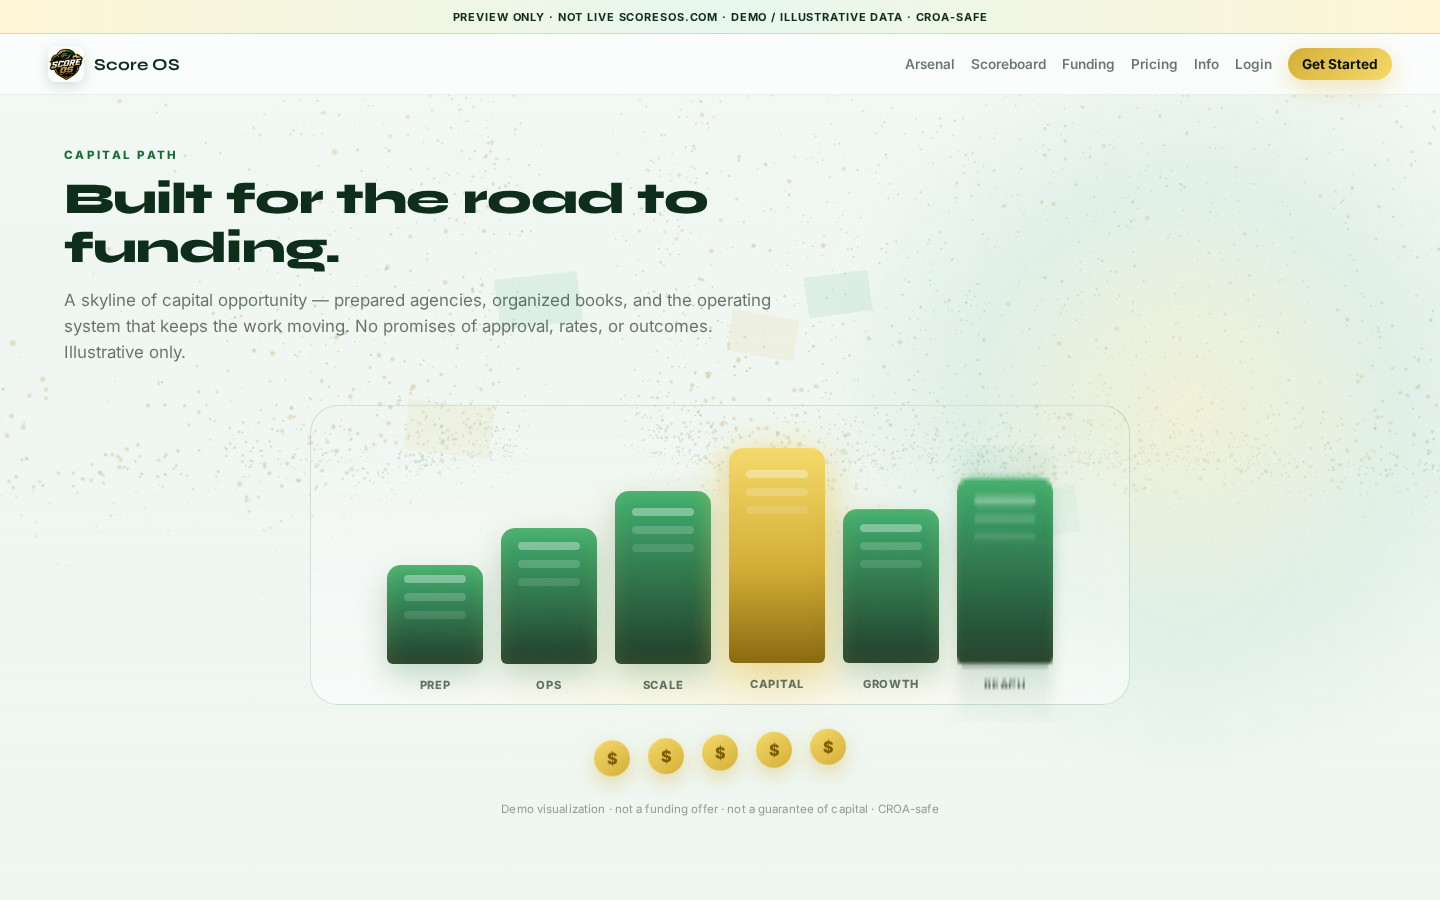
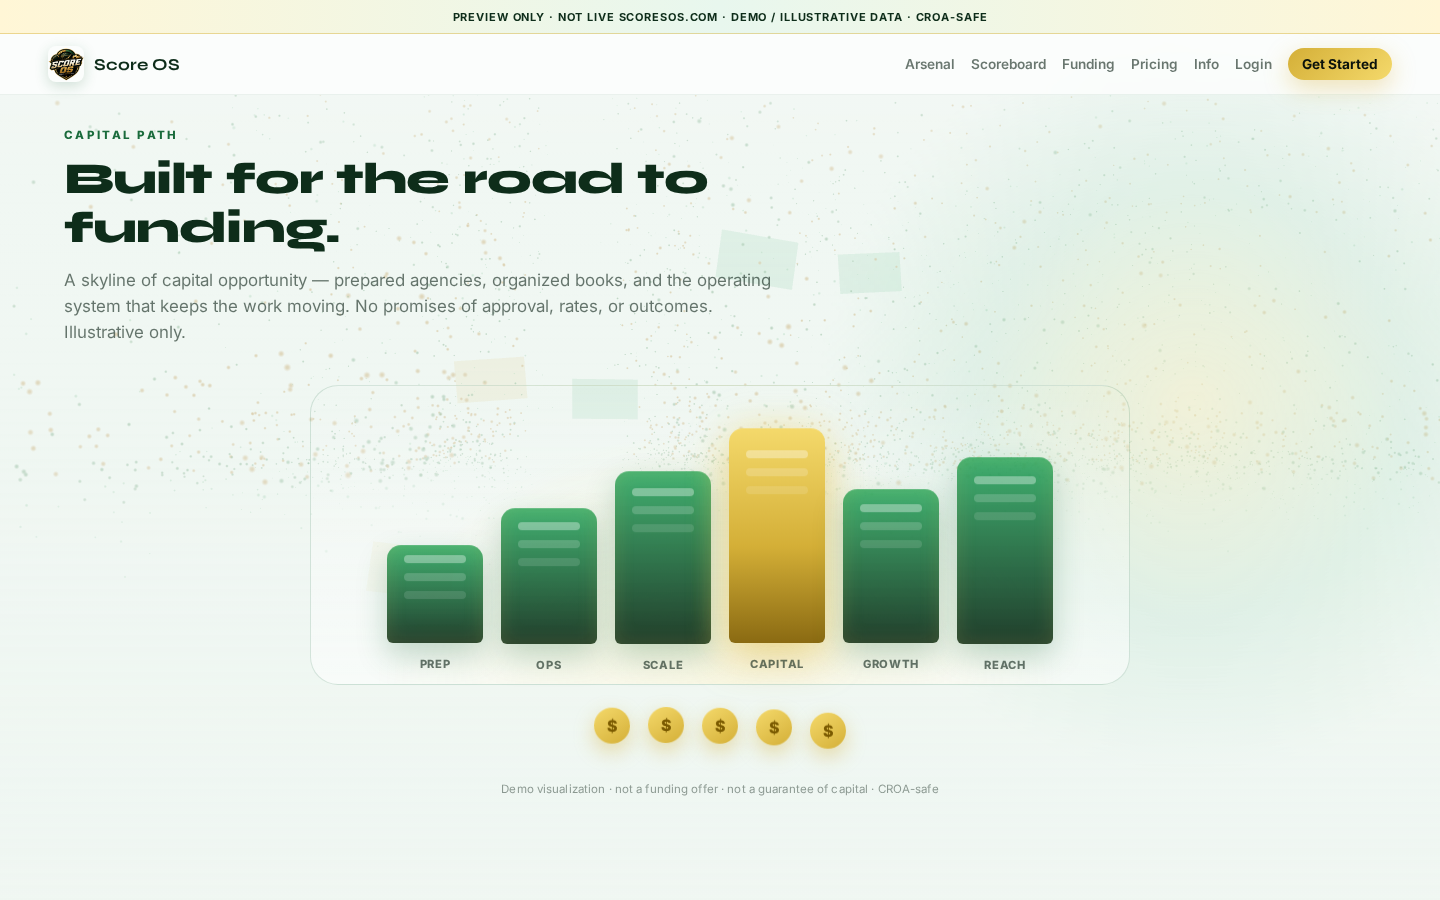
Fix funding label overflow; README live URL; QA shots

diff --git a/styles.css b/styles.css
@@ -404,7 +404,7 @@ section {
 
 .brand-block { padding-top: 40px; padding-bottom: 40px; }
 
-.funding { overflow: hidden; }
+.funding { overflow: visible; }
 .skyline {
   display: flex; align-items: flex-end; justify-content: center; gap: clamp(8px, 1.5vw, 18px);
   height: 300px; margin: 0 auto 18px; max-width: 820px;
@@ -415,6 +415,7 @@ section {
   border-radius: 28px;
   border: 1px solid var(--glass-border);
   position: relative;
+  overflow: visible;
 }
 .sky-col {
   flex: 1; max-width: 96px; height: var(--h);

diff --git a/README.md b/README.md
@@ -2,6 +2,8 @@
 
 **Preview only** · noindex · not live scoresos.com · CROA-safe illustrative demo.
 
+Live URL: https://scoresos-bright-preview.onrender.com
+
 Concept: Patrick-approved bright direction (2026-11-01). Light background with brand green and gold. Background holograms tell the story — climbing 3-bureau score gauges, flying approval cards, funding skyline — with cursor parallax and scroll motion. Phones get a lighter CSS/canvas fallback.
 
 ## Stack
